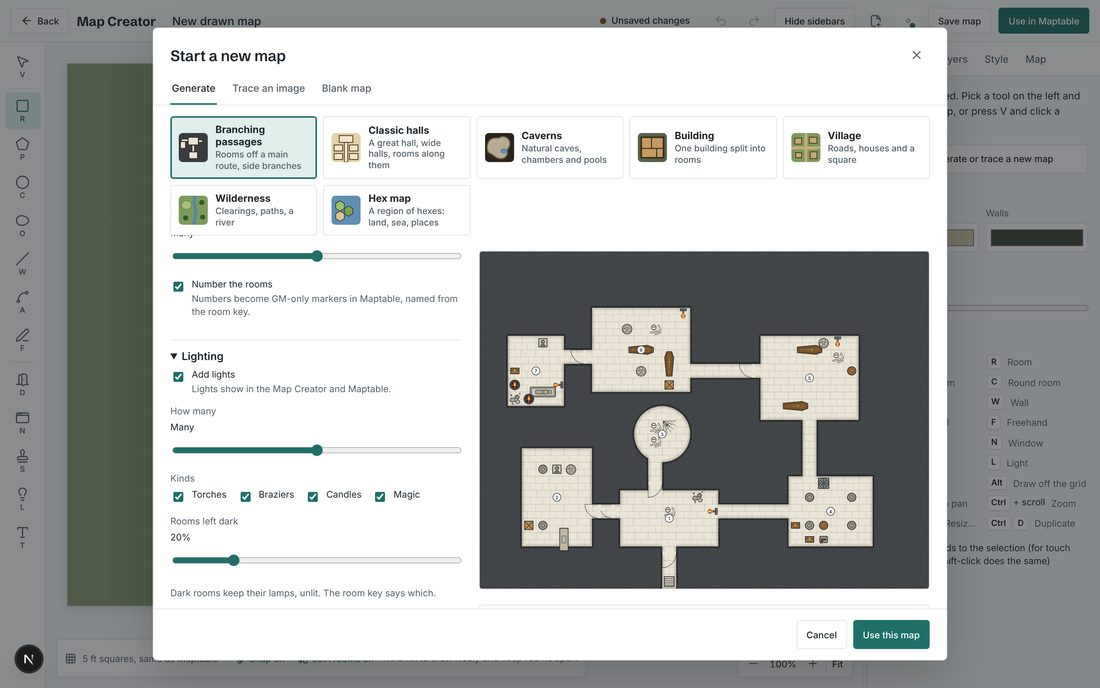
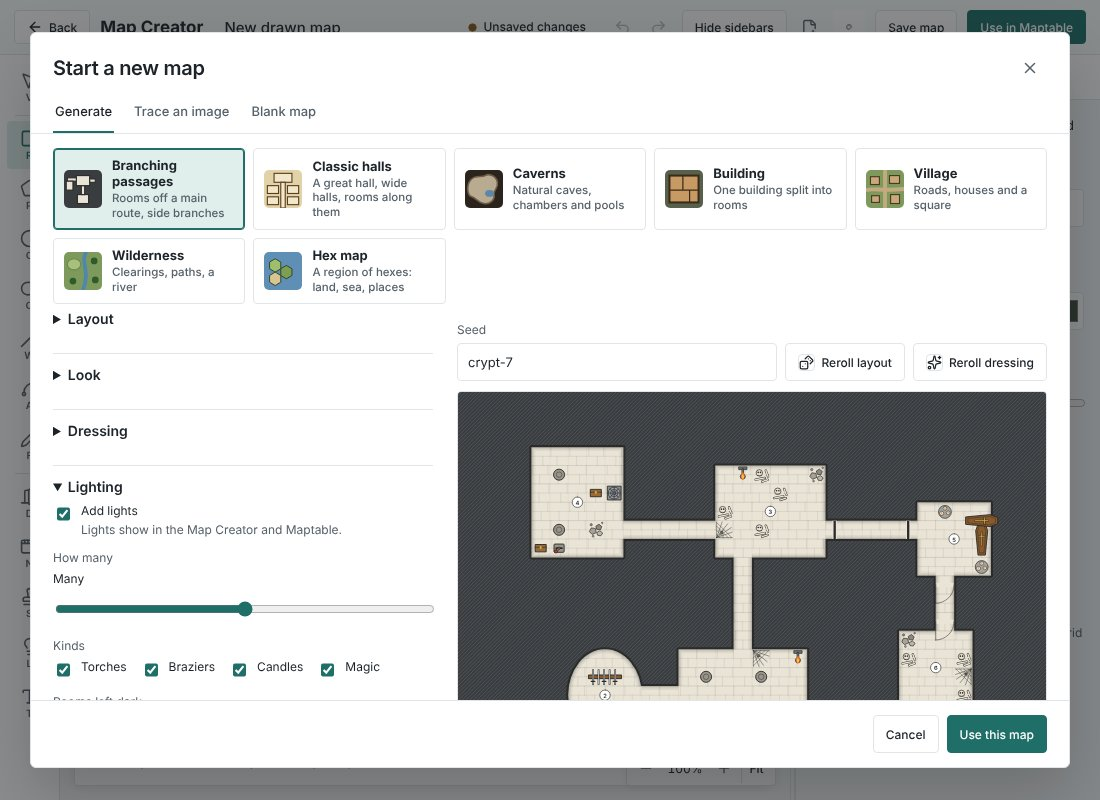
Keep the dungeon preview from overlapping settings on a phone; retake the generator guide image

diff --git a/components/new-map-dialog.tsx b/components/new-map-dialog.tsx
@@ -177,10 +177,10 @@ export default function NewMapDialog({ grid, close, start, trace }: {
             <div className="creator-seed"><input aria-label="Seed" title="The same seed and settings always make the same map" value={o.seed} maxLength={40} onChange={e => set("seed", e.target.value)}/>
               <button type="button" onClick={() => setO(p => ({ ...p, seed: randomSeed(), dressing: 0 }))} title="A new seed: new rooms and new dressing"><Dices size={15}/> Reroll layout</button>{kind !== "wilderness" && <button type="button" onClick={() => set("dressing", o.dressing + 1)} title="The same rooms, with new things in them"><Sparkles size={15}/> Reroll dressing</button>}</div>
           </div>
-          <svg viewBox={`0 0 ${map.width} ${map.height}`} role="img" aria-label="Preview of the generated map">
+          <div className="creator-preview-map"><svg viewBox={`0 0 ${map.width} ${map.height}`} role="img" aria-label="Preview of the generated map">
             <DrawingBackground drawing={map.drawing} width={map.width} height={map.height}/>
             {orderedShapes(map.drawing).map(s => <DrawingShape key={s.id} shape={s} drawing={map.drawing} prefix="preview"/>)}
-          </svg>
+          </svg></div>
           {"key" in map && Array.isArray(map.key) && map.key.length > 0 && <details className="creator-room-key" open><summary>Room key <small>GM only</small></summary><ol>
             {map.key.map(k => <li key={k.number}><b>{k.name}</b> {keyNote(k)}</li>)}
           </ol></details>}

diff --git a/components/map-creator.css b/components/map-creator.css
@@ -241,5 +241,5 @@
 @media(max-width:700px) {
   .creator-new-map .creator-preview:not(.hexmap-preview) { display:contents; }
   .creator-new-map .creator-preview:not(.hexmap-preview) > .creator-seed-field,
-  .creator-new-map .creator-preview:not(.hexmap-preview) > svg { order:-1; }
+  .creator-new-map .creator-preview:not(.hexmap-preview) > .creator-preview-map { order:-1; }
 }
